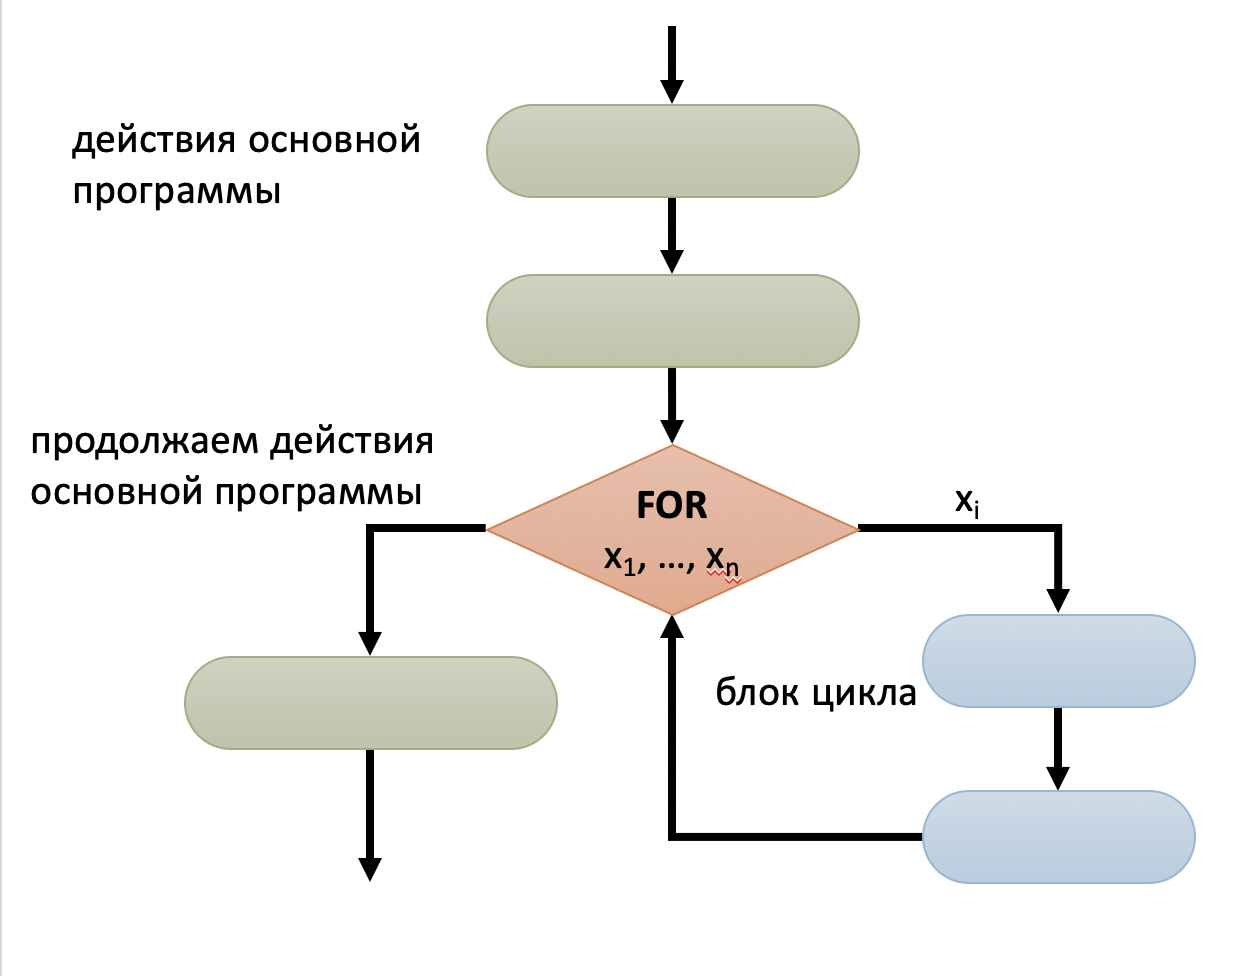
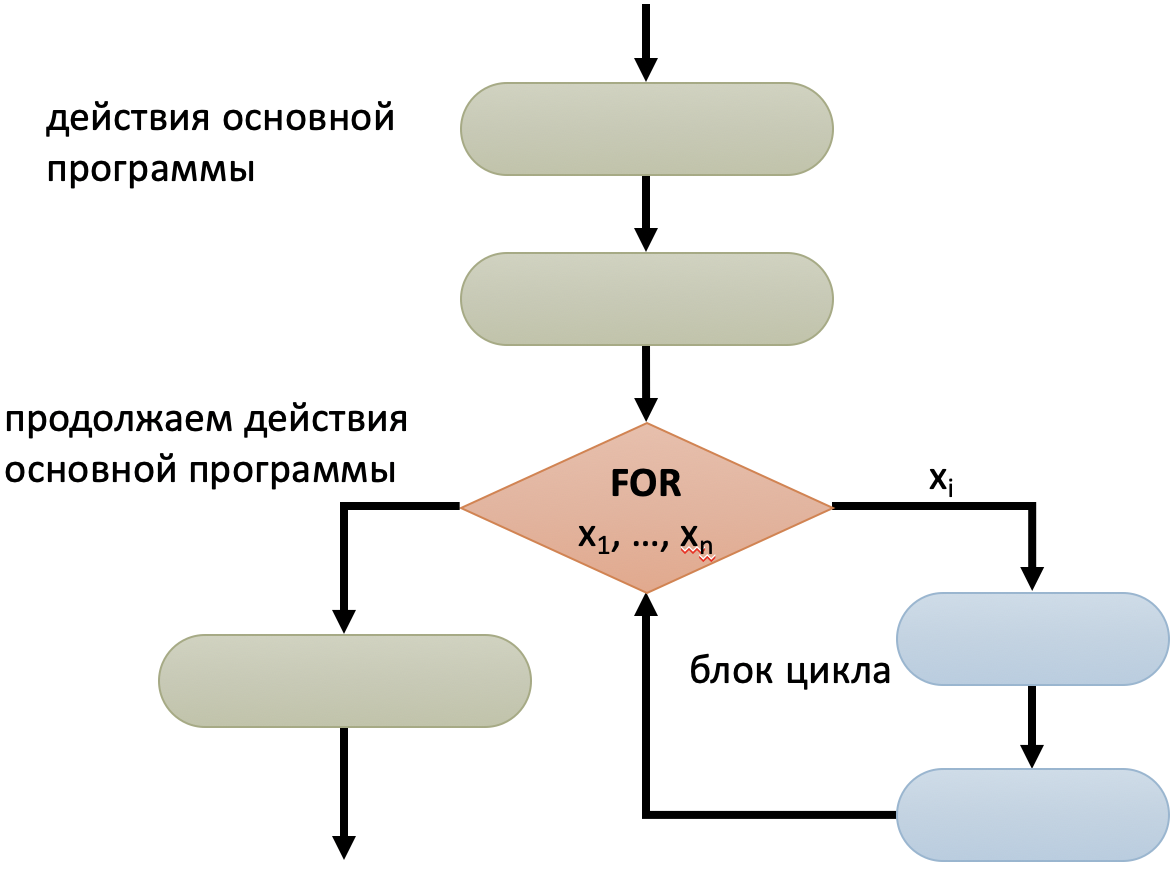
FOR operator4

diff --git a/INSTRUCTIONS/DAY06_27JAN20_BASHSCRIPT.md b/INSTRUCTIONS/DAY06_27JAN20_BASHSCRIPT.md
@@ -9,9 +9,9 @@
 1. [СВОЙСТВА АЛГОРИТМОВ](https://github.com/vinni-bio/LEEBAO-BIOINFORMATICS/blob/master/INSTRUCTIONS/DAY06_27JAN20_BASHSCRIPT.md#1-%D1%81%D0%B2%D0%BE%D0%B9%D1%81%D1%82%D0%B2%D0%B0-%D0%B0%D0%BB%D0%B3%D0%BE%D1%80%D0%B8%D1%82%D0%BC%D0%BE%D0%B2-%D0%BF%D0%BE-%D0%B4-%D0%BA%D0%BD%D1%83%D1%82%D1%83)
 2. [ОПЕРАТОРЫ](https://github.com/vinni-bio/LEEBAO-BIOINFORMATICS/blob/master/INSTRUCTIONS/DAY06_27JAN20_BASHSCRIPT.md#2-%D0%BE%D0%BF%D0%B5%D1%80%D0%B0%D1%82%D0%BE%D1%80%D1%8B)
 
-   2.1 [Оператор присваивания (замещения)](https://github.com/vinni-bio/LEEBAO-BIOINFORMATICS/blob/master/INSTRUCTIONS/DAY06_27JAN20_BASHSCRIPT.md#%D0%BE%D0%BF%D0%B5%D1%80%D0%B0%D1%82%D0%BE%D1%80-%D0%BF%D1%80%D0%B8%D1%81%D0%B2%D0%B0%D0%B8%D0%B2%D0%B0%D0%BD%D0%B8%D1%8F-%D0%B7%D0%B0%D0%BC%D0%B5%D1%89%D0%B5%D0%BD%D0%B8%D1%8F)  
-   2.2 [Оператор сравнения (ветвления)](https://github.com/vinni-bio/LEEBAO-BIOINFORMATICS/blob/master/INSTRUCTIONS/DAY06_27JAN20_BASHSCRIPT.md#%D0%BE%D0%BF%D0%B5%D1%80%D0%B0%D1%82%D0%BE%D1%80-%D1%81%D1%80%D0%B0%D0%B2%D0%BD%D0%B5%D0%BD%D0%B8%D1%8F-%D0%B8%D0%BB%D0%B8-%D0%BE%D0%BF%D0%B5%D1%80%D0%B0%D1%82%D0%BE%D1%80-%D0%B2%D0%B5%D1%82%D0%B2%D0%BB%D0%B5%D0%BD%D0%B8%D1%8F)  
-   2.3 [Оператор цикла FOR](https://github.com/vinni-bio/LEEBAO-BIOINFORMATICS/blob/master/INSTRUCTIONS/DAY06_27JAN20_BASHSCRIPT.md#%D0%BE%D0%BF%D0%B5%D1%80%D0%B0%D1%82%D0%BE%D1%80-%D1%86%D0%B8%D0%BA%D0%BB%D0%B0-for)  
+   2.1. [Оператор присваивания (замещения)](https://github.com/vinni-bio/LEEBAO-BIOINFORMATICS/blob/master/INSTRUCTIONS/DAY06_27JAN20_BASHSCRIPT.md#%D0%BE%D0%BF%D0%B5%D1%80%D0%B0%D1%82%D0%BE%D1%80-%D0%BF%D1%80%D0%B8%D1%81%D0%B2%D0%B0%D0%B8%D0%B2%D0%B0%D0%BD%D0%B8%D1%8F-%D0%B7%D0%B0%D0%BC%D0%B5%D1%89%D0%B5%D0%BD%D0%B8%D1%8F)  
+   2.2. [Оператор сравнения (ветвления)](https://github.com/vinni-bio/LEEBAO-BIOINFORMATICS/blob/master/INSTRUCTIONS/DAY06_27JAN20_BASHSCRIPT.md#%D0%BE%D0%BF%D0%B5%D1%80%D0%B0%D1%82%D0%BE%D1%80-%D1%81%D1%80%D0%B0%D0%B2%D0%BD%D0%B5%D0%BD%D0%B8%D1%8F-%D0%B8%D0%BB%D0%B8-%D0%BE%D0%BF%D0%B5%D1%80%D0%B0%D1%82%D0%BE%D1%80-%D0%B2%D0%B5%D1%82%D0%B2%D0%BB%D0%B5%D0%BD%D0%B8%D1%8F)  
+   2.3. [Оператор цикла FOR](https://github.com/vinni-bio/LEEBAO-BIOINFORMATICS/blob/master/INSTRUCTIONS/DAY06_27JAN20_BASHSCRIPT.md#%D0%BE%D0%BF%D0%B5%D1%80%D0%B0%D1%82%D0%BE%D1%80-%D1%86%D0%B8%D0%BA%D0%BB%D0%B0-for)  
 
 
 ### 1. СВОЙСТВА АЛГОРИТМОВ (по Д. Кнуту)
@@ -57,11 +57,11 @@ echo "${NAME1}!"
    `[[ -z строка` – пустая строка (длина равна нулю)  
    `[[ СТРОКА1 == СТРОКА2 ]]` – строки равны  
    `[[ СТРОКА1 != СТРОКА2 ]]` – строки неравны  
-   `[[ ЧИСЛО1 -eq ЧИСЛО2 ]]` и `[[ ЧИСЛО1 == ЧИСЛО2 ]]` – целые числа равны  
-   `[[ ЧИСЛО1 -gt ЧИСЛО2 ]]` и `[[ ЧИСЛО1 > ЧИСЛО2 ]]` – целое число 1 больше числа 2  
-   `[[ ЧИСЛО1 -ge ЧИСЛО2 ]]` и `[[ ЧИСЛО1 >= ЧИСЛО2 ]]` – целое число 1 больше или равно числу 2  
-   `[[ ЧИСЛО1 -lt ЧИСЛО2 ]]` и `[[ ЧИСЛО1 < ЧИСЛО2 ]]` – целое число 1 меньше числа 2  
-   `[[ ЧИСЛО1 -le ЧИСЛО2 ]]` и `[[ ЧИСЛО1 <= ЧИСЛО2 ]]` – целое число 1 меньше или равно числу 2  
+   `[[ ЧИСЛО1 -eq ЧИСЛО2 ]]` или `[[ ЧИСЛО1 == ЧИСЛО2 ]]` – целые числа равны  
+   `[[ ЧИСЛО1 -gt ЧИСЛО2 ]]` или `[[ ЧИСЛО1 > ЧИСЛО2 ]]` – целое число 1 больше числа 2  
+   `[[ ЧИСЛО1 -ge ЧИСЛО2 ]]` или `[[ ЧИСЛО1 >= ЧИСЛО2 ]]` – целое число 1 больше или равно числу 2  
+   `[[ ЧИСЛО1 -lt ЧИСЛО2 ]]` или `[[ ЧИСЛО1 < ЧИСЛО2 ]]` – целое число 1 меньше числа 2  
+   `[[ ЧИСЛО1 -le ЧИСЛО2 ]]` или `[[ ЧИСЛО1 <= ЧИСЛО2 ]]` – целое число 1 меньше или равно числу 2  
    `[[ -d ИМЯ ]]` – существует такая директория  
    `[[ -h ИМЯ ]]` – существует такая гиперссылка  
    `[[ -e ИМЯ ]]` – существует такой файл  
@@ -93,7 +93,7 @@ fi ;
 
 **БЛОК-СХЕМА С ИСПОЛЬЗОВАНИЕМ ОПЕРАТОРА ЦИКЛА FOR**
 <img src="https://github.com/vinni-bio/LEEBAO-BIOINFORMATICS/blob/master/IMAGES/FOR.png" 
-alt="FOR operator" width="600" border="20" />
+alt="FOR operator" width="480" border="20" />
 
 **Выполнить для каждого файла по заданному пути**
 ```
